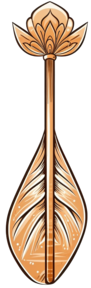
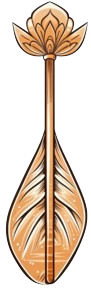
add rally

diff --git a/src/Board.java b/src/Board.java
@@ -25,7 +25,7 @@ public class Board extends JPanel implements ActionListener, KeyListener {
 
     public Board() {
         setPreferredSize(new Dimension(BOARD_WIDTH, BOARD_HEIGHT));
-        setBackground(Color.GRAY);
+        setBackground(Color.LIGHT_GRAY);
 
         rallyCounter = 0;
         ball = new Ball();
@@ -71,12 +71,12 @@ public class Board extends JPanel implements ActionListener, KeyListener {
 
         graphics.setFont(new Font("Arial", Font.BOLD, 25));
         graphics.setColor(Color.RED);
-        graphics.drawString("Rally: " + rallyCounter, 250, 100);
 
         for(Sprite sprite : sprites) {
             sprite.draw(graphics, this);
         }
 
+        graphics.drawString("Rally: " + rallyCounter, 250, 30);
         score.displayScore(graphics);
     }
 
